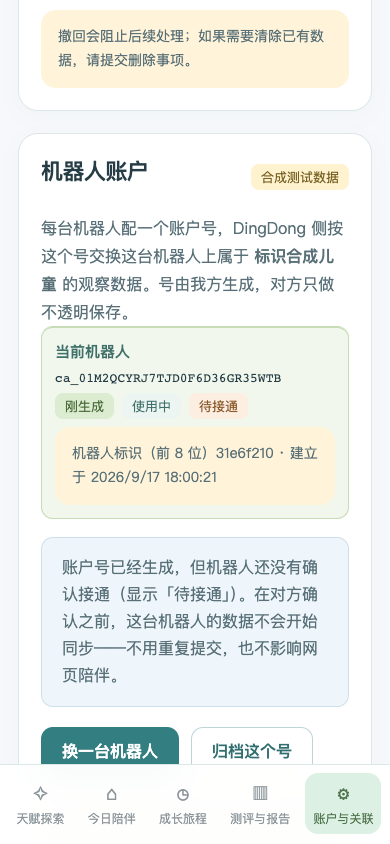
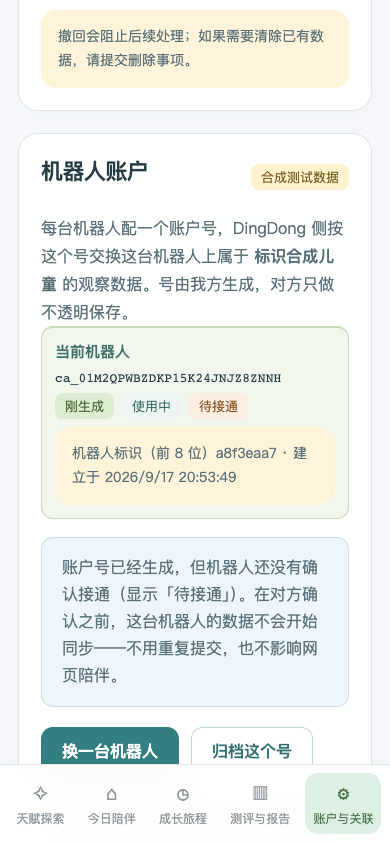
[T-026] chore(evidence): 刷新 T-012 账户页三张入库截图并记明前提核对

Changed region(s): [[0.1846, 0.5237, 0.7077, 0.5853], [0.3077, 0.4313, 0.7077, 0.4621], [0.7385, 0.5237, 0.8308, 0.5545]]

diff --git a/.trellis/tasks/T-026/report.md b/.trellis/tasks/T-026/report.md
@@ -1,0 +1,67 @@
+# T-026 报告：刷新 T-012 过期截图（证据保鲜）
+
+## goal
+重跑生成 `.trellis/tasks/T-012/shots/` 三张入库截图的用例，刷新它们；核对刷新后的截图仍满足 T-012 验收（账户页不含「指纹」字样、显示同一摘要前 8 位）。
+
+## 实际做了什么
+- 只重跑用例，未改产品代码、未改用例代码（三张图由 `frontend/tests/robot-label.spec.js` 第 68/75/96 行写出，文件本身一字未改）。
+- 刷新结果：三张图确实全部变化（字节数 144227→142118、88340→88248、182021→181841），已入库。
+- 顺手核对了一件影响结论的事实，见下节「对 brief 前提的核对」。
+
+## 对 brief 前提的核对（两处与任务描述不符）
+1. **写这三张图的用例不是 `ca-account.spec.js`，是 `robot-label.spec.js`。** 全仓检索截图路径（`grep -rn "shots" frontend/tests/*.js`）显示 `.trellis/tasks/T-012/shots/` 的唯一写入者是 `robot-label.spec.js`；`ca-account.spec.js` 只写 `.trellis/tasks/T-008/shots/empty-credential.png`（第 244 行）。T-017 报告里「跑 `tests/ca-account.spec.js` 会重写 `.trellis/tasks/T-012/shots/` 下 3 张截图」这句归因有误——当时那一轮是 `ca-account.spec.js` + `robot-label.spec.js` 一起跑的回归。本任务按 acceptance 要求的两条命令都跑了（`ca-account.spec.js` 全绿 + `robot-label.spec.js` 刷新）。
+2. **「相对当前代码已过期」这个前提不成立。** 三张图的字节差异全部来自用例每次运行都换随机值，不是代码或文案漂移：
+   - 用例源码里手机号与凭据都是随机的（`robot-label.spec.js:11-15` 的 `Math.random()`）。
+   - 无代码改动的连续两次运行，三张图 md5 两两不同（`shots-run1.sha256` vs `shots-after.sha256`），字节数 144489→142118。
+   - 像素级比对（阈值 12，HEAD 版 vs 本轮刷新版）可见差异只落在随机值文本带上，文案与版式一字未动：
+
+     | 图 | 可见差异像素 | 差异带（行 / 列） | 对应内容 |
+     | --- | --- | --- | --- |
+     | account-row-desktop.png | 3399 | 155-168 / 569-578 / 647-660 / 672-683 | 家长手机号 / 账户号 / 摘要+日期 / 时间 |
+     | account-row-mobile.png | 3167 | 373-382 / 446-459 / 470-483 | 账户号 / 摘要+日期 / 时间 |
+     | replace-dialog-desktop.png | 6851 | 210-227 / 455-468 / 502-556 | 账户号+摘要 / 摘要 / 凭据输入框随机串 |
+
+   - 人工看图对照：`card-old.png` / `card-new.png`、`dlg-old.png` / `dlg-new.png`（HEAD 版与新版的同区域裁切），除账户号、摘要、时间外完全一致。
+   - 结论：刷新本身仍是需要的（证据要与当前代码同一次运行对齐），但「T-012 入库截图相对当前代码已过期」是误判，成因是随机值而非漂移。T-017 报告里「两次连续渲染 md5 一致」的观察，与本轮实测不符。
+
+## T-012 验收项在刷新后截图上的核对
+- 账户页「机器人账户」面板不含「指纹」字样：新版 desktop 截图面板内为「机器人标识（前 8 位） a8f3eaa7 · 建立于 2026/9/17 20:53:49」，无「指纹」；用例内另有 `expect(panel).not.toContainText("指纹")` 断言。
+- 显示同一摘要前 8 位：账户行摘要 `a8f3eaa7` 与换机弹窗正文「机器人标识前 8 位 a8f3eaa7，账户号 ca_01M2QPWBZDKP15K24JNJZ8ZNNH」一致，账户号也与账户行 `ca_01M2QPWBZDKP15K24JNJZ8ZNNH` 一致；390×844 窄屏截图同样是 `a8f3eaa7`。
+- 截图内可见的账户行底部黄色小卡与侧栏底部 `.sidebar-bottom`（`frontend/index.html:34-39`）在 HEAD 版里同样存在，非本轮引入。
+
+## 验证命令与真实输出（原样照抄）
+1. 刷新：`cd frontend && npx playwright test tests/robot-label.spec.js --reporter=list`
+   ```
+     ✓  1 tests/robot-label.spec.js:34:1 › 账户页把机器人摘要叫「机器人标识（前 8 位）」，不说「指纹」 (12.2s)
+   1 passed (12.9s)
+   ```
+2. 无代码改动再跑一次（验证随机性，非漂移）：同命令
+   ```
+     ✓  1 tests/robot-label.spec.js:34:1 › 账户页把机器人摘要叫「机器人标识（前 8 位）」，不说「指纹」 (12.7s)
+   1 passed (13.4s)
+   ```
+   两次 md5：desktop `58885c00e7d65512f2b207c71bb0a2e8` → `1cb6952a73bc68d5ad06e1efd02cc5c7`；mobile `283c63e5ce815f86579863fac091f3d1` → `90371292d528022a4856c6236691d57a`；dialog `6d00d310c9ef64edf54dabdc6c64ca2f` → `429f70df0249c25fff25e979d1a4d7d8`。
+3. acceptance 命令：`cd frontend && npx playwright test tests/ca-account.spec.js --reporter=list`
+   ```
+     ✓  1 tests/ca-account.spec.js:55:1 › NFC 承接：凭据不在地址栏留下，新号如实显示待接通 (5.4s)
+     ✓  2 tests/ca-account.spec.js:91:1 › 同一台机器人再次绑定复用同一个号，不换号 (7.0s)
+     ✓  3 tests/ca-account.spec.js:103:1 › 换机：确认弹窗讲清代价，旧号归档可查，新号重新开始 (9.4s)
+     ✓  4 tests/ca-account.spec.js:145:1 › 绑定成功后停在账户页并高亮新号，标签不带路由也不跳回探索页 (7.2s)
+     ✓  5 tests/ca-account.spec.js:189:1 › 新会话从标签进来：登录建档后绑定，同样落在账户页 (4.2s)
+     ✓  6 tests/ca-account.spec.js:211:1 › 手填绑定：空凭据就地提示，对话框不关 (4.8s)
+     ✓  7 tests/ca-account.spec.js:248:1 › 绑定落点截图：桌面与 390×844 (6.0s)
+     ✓  8 tests/ca-account.spec.js:280:1 › 窄屏下账户号不撑破页面 (6.3s)
+   8 passed (51.1s)
+   ```
+4. `cd frontend && npm run check` → exit 0。
+5. `cd frontend && npm run test:unit` → `ℹ tests 16` / `ℹ pass 16` / `ℹ fail 0` / `ℹ duration_ms 82.047834`。
+6. `python3 scripts/audit_documents.py` → `{"markdown_files": 80, "local_links_checked": 497, "archived_files_checked": 85, "operations": 55, "schemas": 65, "errors": []}`。
+7. 刷新前后 sha256 见 `shots-before.sha256` / `shots-after.sha256`；像素差异明细见 `diff-analysis.txt`。
+
+## 未验证项
+- 未在真实设备（手机/平板）上看过截图；窄屏只用 Chrome 390×844 视口。
+- 未跑 `flows.spec.js` 等其它用例回归：本轮只改三张二进制截图，不改任何代码，回归无对应面；且每条用例消耗 1 次 `/auth/sms`，本机 IP 近 1 小时余量已用掉 10 次（9 → 19，上限 50）。
+
+## 偏离与理由
+- **`ca-account.spec.js` 连带重写了 `.trellis/tasks/T-008/shots/empty-credential.png`（197704 → 188099 字节），已 `git checkout --` 还原，未混入本轮提交。** 该图不在 T-026 goal 范围内（T-026 只针对 T-012 的三张），按「本轮只做一个任务」处理。但这个连带重写与 T-012 的情况不同：它是**真漂移**，不是随机值——可见差异 199203 像素、遍布整页（差异带 rows 0-181 / 198-249 / 282-347 / 404-719），成因是弹窗背后页面的滚动位置变了（弹窗本身文案完全一致）。建议 orchestrator 另开一个同类的证据保鲜任务刷新它。本轮没有留下刷新后的副本（已还原），该任务重跑 `ca-account.spec.js` 即可复现。
+- 证据目录只保留小体积对照物：run1 的三张整图已删（412KB 冗余），保留其 sha256 文本（`shots-run1.sha256`）与两张局部裁切对照（`card-old/new.png`、`dlg-old/new.png`）；HEAD 版整图随时可用 `git show HEAD:.trellis/tasks/T-012/shots/<file>` 取回复核。

diff --git a/.trellis/tasks/T-026/progress.md b/.trellis/tasks/T-026/progress.md
@@ -1,0 +1,32 @@
+# T-026 progress
+
+## 已完成阶段
+- Plan
+- Implement
+- Verify
+- Finish
+
+## 改动文件
+- `.trellis/tasks/T-012/shots/account-row-desktop.png`、`account-row-mobile.png`、`replace-dialog-desktop.png`（重跑刷新，仅三张二进制）
+- `.trellis/tasks/T-026/`（progress.md、report.md、shots-before.sha256、shots-run1.sha256、shots-after.sha256、diff-analysis.txt、git-status-baseline.txt、card-old/new.png、dlg-old/new.png）
+- `.trellis/loop/queue.md`（T-026 status: todo → doing → done，notes 补执行结果）
+- `.trellis/loop/gates.md`（一条 EXECUTED 行）
+- `.trellis/loop/status.md`（整文件重写）
+- `.trellis/workspace/yihu/experiment-log.md`（追加 T-026 行）
+- 未改产品代码；`.trellis/tasks/T-008/shots/empty-credential.png` 被 `ca-account.spec.js` 连带重写，已 `git checkout --` 还原，未混入本轮提交。
+
+## 跑过的命令与结果
+- `shasum -a 256 .trellis/tasks/T-012/shots/*.png`（开工基线）→ 3 个 sha 见 `shots-before.sha256`
+- `git status --short`（开工基线）→ 仅 ` M .trellis/loop/runs.log`
+- 只读核对截图生成方：`grep -rn "shots" frontend/tests/*.js` → `.trellis/tasks/T-012/shots/` 的唯一写入者是 `frontend/tests/robot-label.spec.js`（第 68/75/96 行）；`ca-account.spec.js` 不写这三张图（它写 `.trellis/tasks/T-008/shots/empty-credential.png`）。
+- 只读核对限流余量：`SmsChallenge` 近 1 小时 `client_ip=127.0.0.1` 计数 = 9（上限 50）。三次用例共消耗 10 次 `/auth/sms`（robot-label 2 次 + ca-account 8 次）。
+- `cd frontend && npx playwright test tests/robot-label.spec.js --reporter=list`（第 1 次，刷新）→ `1 passed (12.9s)`
+- 同命令（第 2 次，无代码改动）→ `1 passed (13.4s)`；三张图 md5 与第 1 次全不相同（desktop `58885c00…` vs `1cb6952a…`，mobile `283c63e5…` vs `90371292…`，dialog `6d00d310…` vs `429f70df…`）
+- `cd frontend && npx playwright test tests/ca-account.spec.js --reporter=list` → `8 passed (51.1s)`（8 条逐条 ✓）
+- `cd frontend && npm run check` → exit 0
+- `cd frontend && npm run test:unit` → `tests 16` / `pass 16` / `fail 0` / `duration_ms 82.047834`
+- `python3 scripts/audit_documents.py` → `{"markdown_files": 80, "local_links_checked": 497, "archived_files_checked": 85, "operations": 55, "schemas": 65, "errors": []}`
+- 像素级核对（HEAD 版 vs 本轮刷新版，阈值 12）：desktop 可见差异 3399 px、mobile 3167 px、dialog 6851 px，全部落在随机值文本带（手机号 / 账户号 / 摘要 / 时间戳 / 凭据输入框），原文见 `diff-analysis.txt`
+
+## 下一步
+- 无。三张截图已刷新并入库；T-026 `status` 改 `done`。队列下一个 `todo` = T-027。
